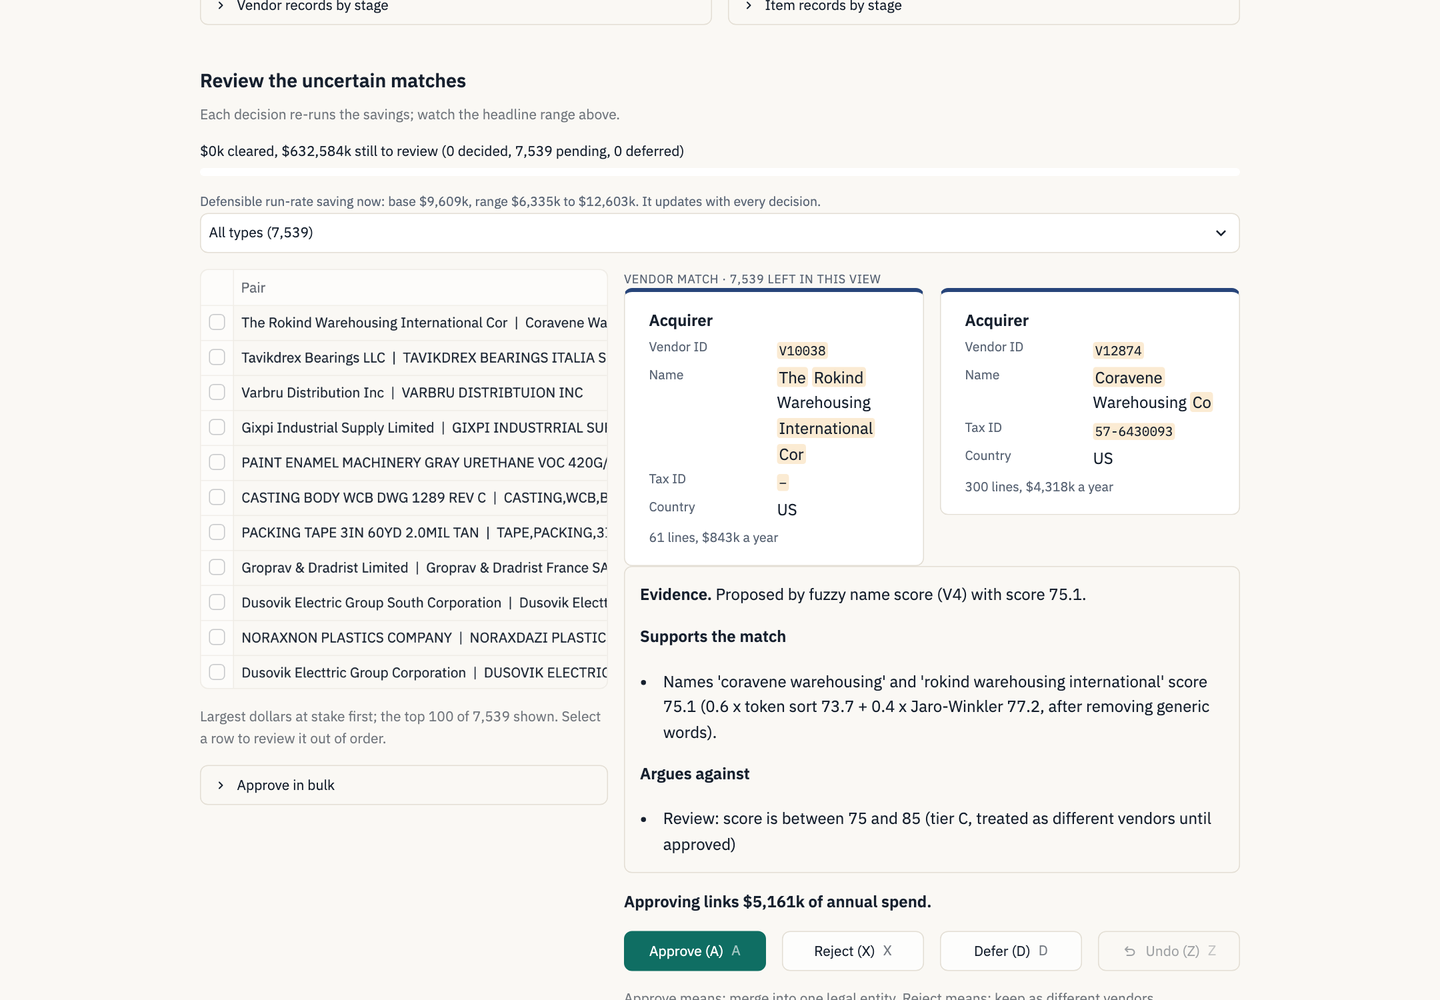
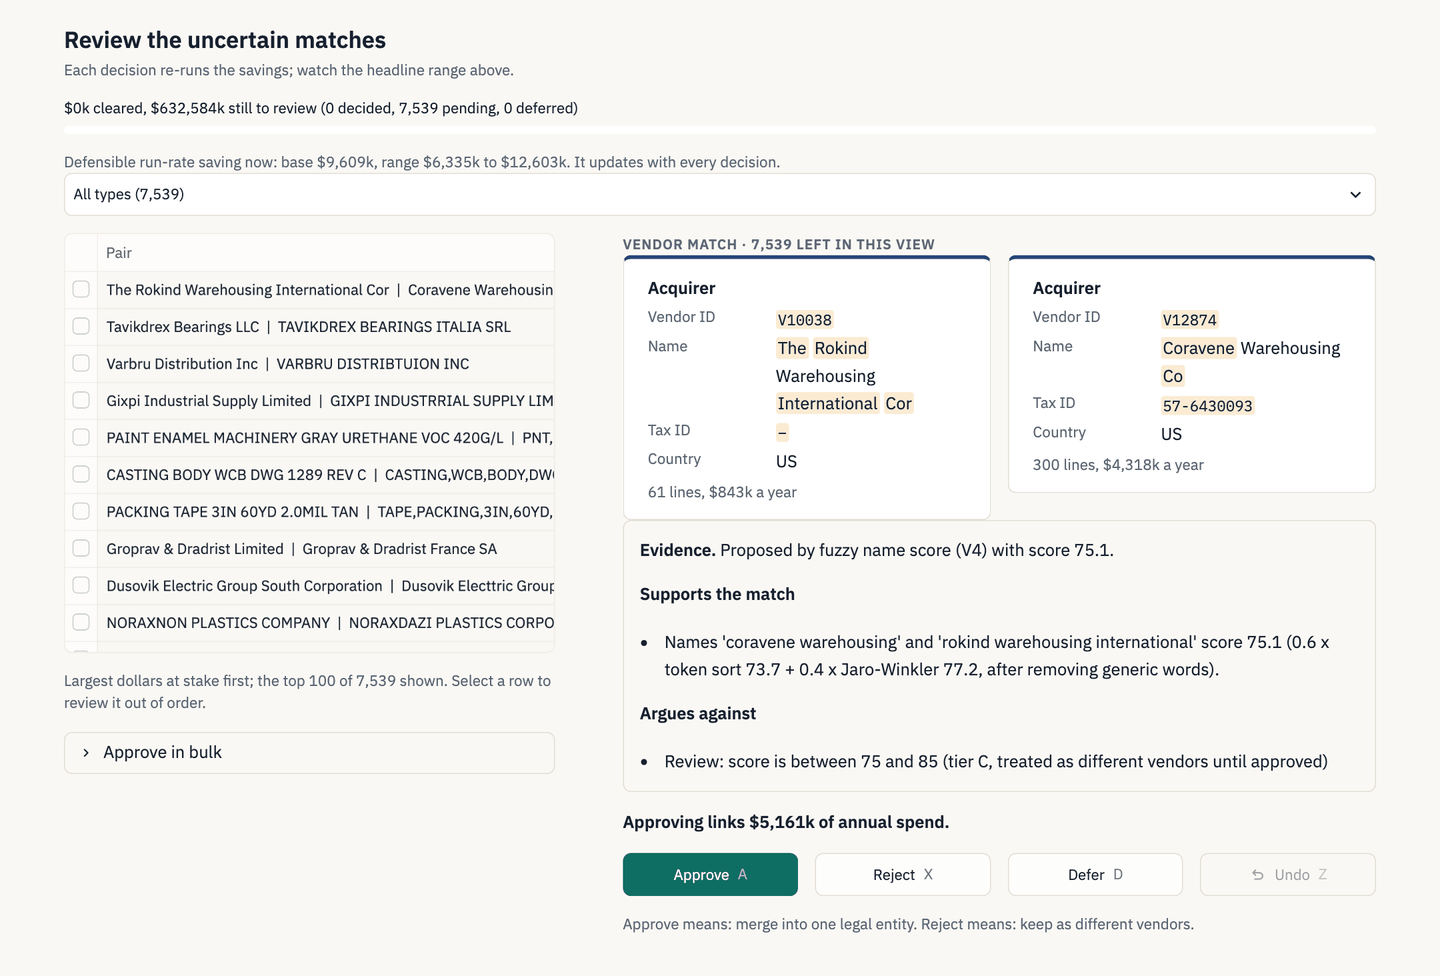
docs: refresh the README screenshots (#54)
The three pictures are recaptured at 1440 px with the new type scale and
layout. The script now crops between section headings found on the page
rather than fixed pixel offsets, reads TIEOUT_APP_URL for another port
and
drops a picture to 256 colours when it would pass the 400 KB README
limit.

🤖 Generated with [Claude Code](https://claude.com/claude-code)

diff --git a/scripts/make_screenshots.py b/scripts/make_screenshots.py
@@ -8,8 +8,10 @@ dependency of the app). Start the app first, then run this script:
 
 It drives Chrome over the DevTools protocol, waits for each page to finish running,
 captures it at 1440 px wide and crops and downsizes each picture to a PNG under 400 KB.
+Crops run between section headings found on the page, so they follow layout changes.
 Plain ``--screenshot`` with a virtual-time budget returned the loading skeleton on the
-build machine, because the page is drawn over a websocket after load.
+build machine, because the page is drawn over a websocket after load. Set
+``TIEOUT_APP_URL`` to capture an app running on another port.
 """
 
 from __future__ import annotations
@@ -18,6 +20,7 @@ import asyncio
 import base64
 import io
 import json
+import os
 import subprocess
 import tempfile
 import time
@@ -28,25 +31,39 @@ import websockets
 from PIL import Image
 
 CHROME = "/Applications/Google Chrome.app/Contents/MacOS/Google Chrome"
-BASE = "http://localhost:8791/"
+BASE = os.environ.get("TIEOUT_APP_URL", "http://localhost:8791/").rstrip("/") + "/"
 WIDTH, SCALE = 1440, 1.5
 OUT = Path(__file__).resolve().parents[1] / "docs" / "screenshots"
-#: file name -> (page, top, bottom) in CSS pixels of the full-page capture.
+#: file name -> (page, first section, section after the crop). ``None`` as the first
+#: section starts at the top of the page; each section is matched on the start of its text.
 SHOTS = {
-    "overview.png": ("", 0, 1230),
-    "matching-review-queue.png": ("matching", 860, 1860),
-    "risk-roadmap.png": ("risk_roadmap", 0, 1230),
+    "overview.png": ("", None, "How sure we are"),
+    "matching-review-queue.png": (
+        "matching",
+        "Review the uncertain matches",
+        "How accurate is the matching?",
+    ),
+    "risk-roadmap.png": ("risk_roadmap", None, "Concentration index before"),
 }
+#: Top of every section heading (and bold table title) on the page, in page pixels.
+_SECTION_TOPS = (
+    "(()=>{const m=document.querySelector('[data-testid=stMain]');const s=m.scrollTop;"
+    "const out={};document.querySelectorAll('.to-section, [data-testid=stMarkdownContainer] "
+    "strong').forEach(e=>{const k=e.innerText.trim();if(!(k in out))"
+    "out[k]=e.getBoundingClientRect().top+s});return out})()"
+)
+MARGIN = 24  # CSS pixels kept above a section heading and cut above the next one
+MAX_BYTES = 390_000  # the README test allows 400 KB a picture
 
 
-async def capture(pages: set[str]) -> dict[str, bytes]:
+async def capture(pages: set[str]) -> dict[str, tuple[bytes, dict[str, float]]]:
     profile = tempfile.mkdtemp()
     chrome = subprocess.Popen(
         [CHROME, "--headless=new", "--disable-gpu", "--hide-scrollbars",
          "--remote-debugging-port=9333", f"--user-data-dir={profile}", "about:blank"],
         stdout=subprocess.DEVNULL, stderr=subprocess.DEVNULL,
     )  # fmt: skip
-    images: dict[str, bytes] = {}
+    images: dict[str, tuple[bytes, dict[str, float]]] = {}
     try:
         tabs: list[dict] = []
         for _ in range(50):
@@ -97,22 +114,36 @@ async def capture(pages: set[str]) -> dict[str, bytes]:
                 )
                 await size(min(max(int(height or 1500), 900), 6000))
                 await asyncio.sleep(3)
+                tops = await evaluate(_SECTION_TOPS) or {}
                 shot = await call("Page.captureScreenshot", format="png")
-                images[page] = base64.b64decode(shot["data"])
+                images[page] = (base64.b64decode(shot["data"]), tops)
                 await size(1500)
     finally:
         chrome.terminate()
     return images
 
 
+def _section_top(tops: dict[str, float], start: str) -> int:
+    """The page position of the first section heading whose text starts with ``start``."""
+    for text, top in tops.items():
+        if text.startswith(start):
+            return int(top)
+    raise SystemExit(f"No section starting {start!r} on the page; update SHOTS.")
+
+
 def main() -> None:
     OUT.mkdir(parents=True, exist_ok=True)
     images = asyncio.run(capture({page for page, _, _ in SHOTS.values()}))
-    for name, (page, top, bottom) in SHOTS.items():
-        picture = Image.open(io.BytesIO(images[page])).convert("RGB")
+    for name, (page, first, after) in SHOTS.items():
+        data, tops = images[page]
+        top = 0 if first is None else max(_section_top(tops, first) - MARGIN, 0)
+        bottom = _section_top(tops, after) - MARGIN
+        picture = Image.open(io.BytesIO(data)).convert("RGB")
         box = (0, int(top * SCALE), picture.width, int(bottom * SCALE))
         picture = picture.crop(box).resize((WIDTH, bottom - top), Image.LANCZOS)
         picture.save(OUT / name, optimize=True)
+        if (OUT / name).stat().st_size > MAX_BYTES:  # a flat interface survives 256 colours
+            picture.quantize(colors=256, dither=Image.Dither.NONE).save(OUT / name, optimize=True)
         print(name, (OUT / name).stat().st_size, "bytes")
 
 
